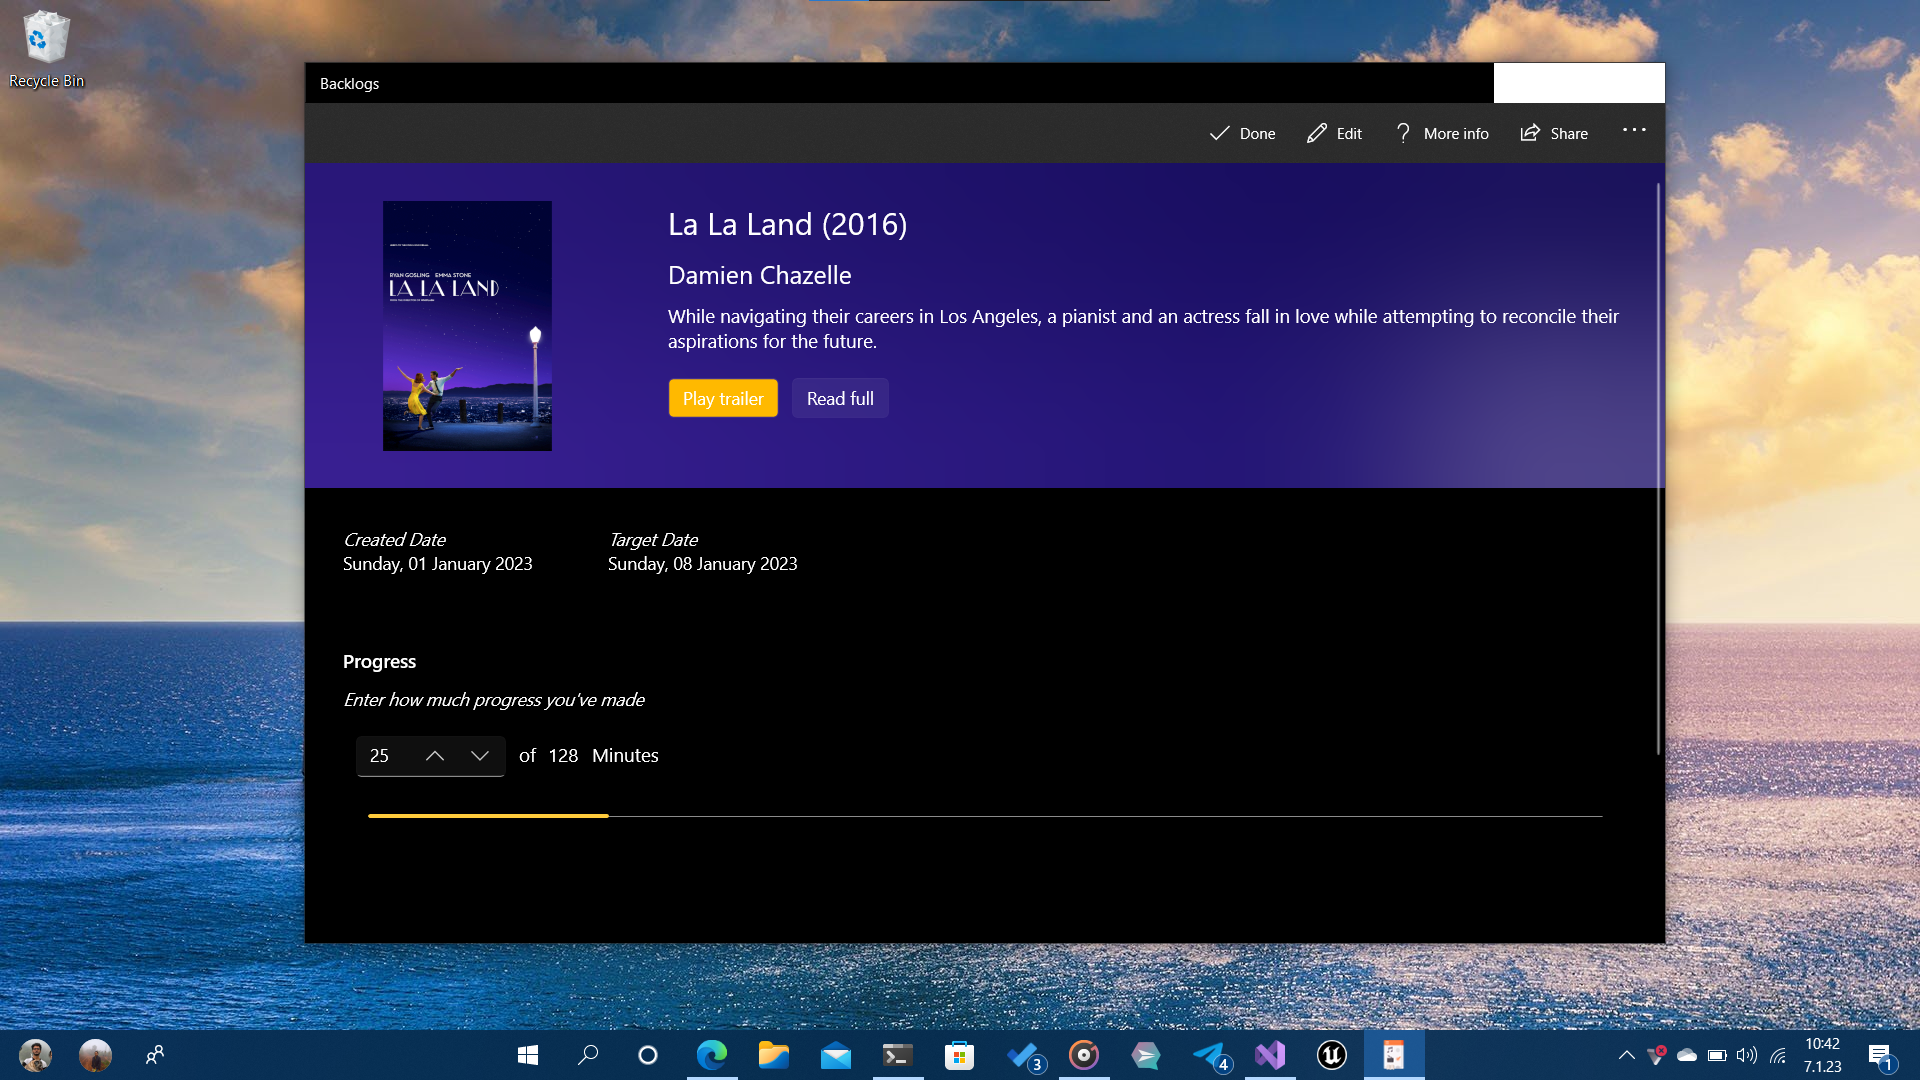
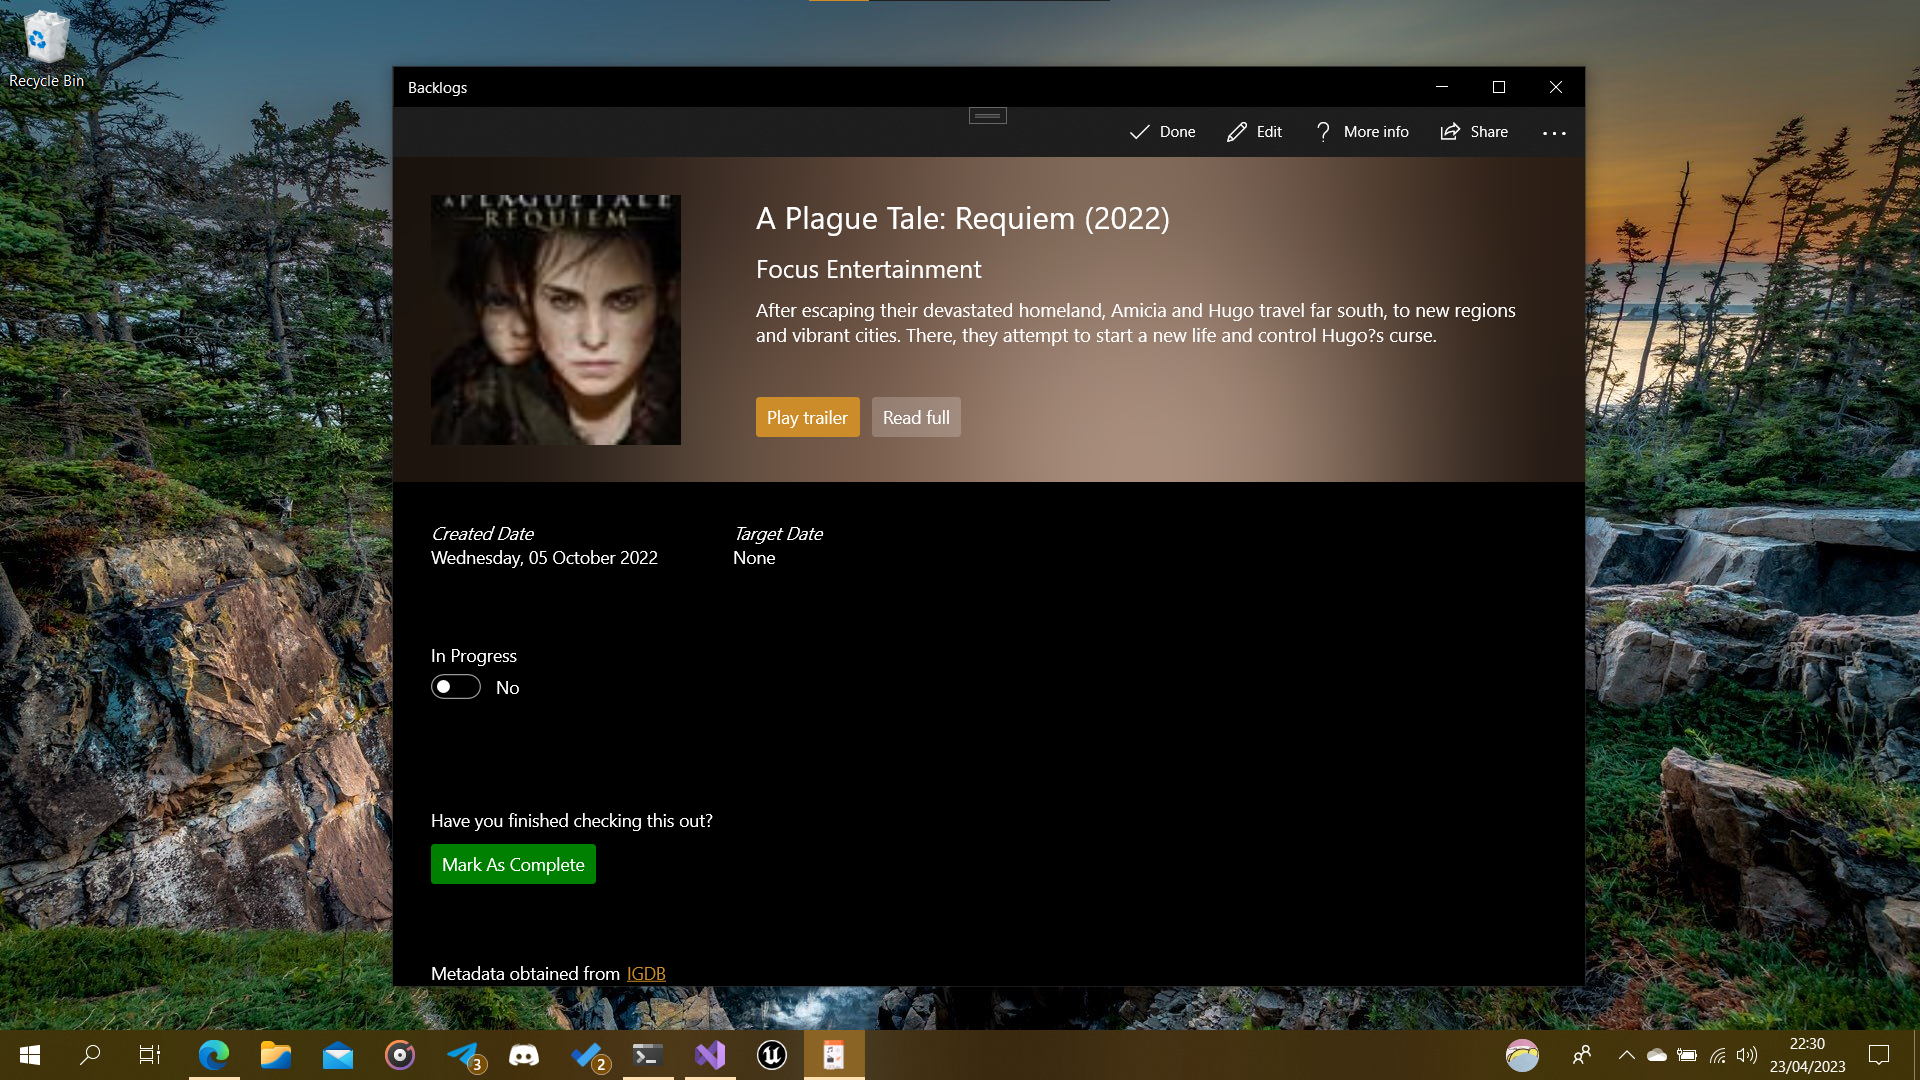
Update to version 0.11.4

diff --git a/Backlogs/ViewModels/SettingsViewModel.cs b/Backlogs/ViewModels/SettingsViewModel.cs
@@ -27,12 +27,16 @@ namespace Backlogs.ViewModels
 
         public string MIT { get; } = "Permission is hereby granted, free of charge, to any person obtaining a copy of this software and associated documentation files (the “Software”), to deal in the Software without restriction, including without limitation the rights to use, copy, modify, merge, publish, distribute, sublicense, and/or sell copies of the Software, and to permit persons to whom the Software is furnished to do so, subject to the following conditions: \n\nThe above copyright notice and this permission notice shall be included in all copies or substantial portions of the Software. \n\nTHE SOFTWARE IS PROVIDED AS IS, WITHOUT WARRANTY OF ANY KIND, EXPRESS OR IMPLIED, INCLUDING BUT NOT LIMITED TO THE WARRANTIES OF MERCHANTABILITY, FITNESS FOR A PARTICULAR PURPOSE AND NON-INFRINGEMENT. IN NO EVENT SHALL THE AUTHORS OR COPYRIGHT HOLDERS BE LIABLE FOR ANY CLAIM, DAMAGES OR OTHER LIABILITY, WHETHER IN AN ACTION OF CONTRACT, TORT OR OTHERWISE, ARISING FROM, OUT OF OR IN CONNECTION WITH THE SOFTWARE OR THE USE OR OTHER DEALINGS IN THE SOFTWARE.";
         public string GPL { get; } = "This program is free software: you can redistribute it and/or modify it under the terms of the GNU General Public License as published by the Free Software Foundation, either version 3 of the License, or (at your option) any later version.\n\nThis program is distributed in the hope that it will be useful, but WITHOUT ANY WARRANTY; without even the implied warranty of MERCHANTABILITY or FITNESS FOR A PARTICULAR PURPOSE. See the GNU General Public License for more details. \n\nYou should have received a copy of the GNU General Public License along with this program. If not, see https://www.gnu.org/licenses/";
-        public string Changelog { get; } = 
-            "\u2022 Improved Homepage design thanks to Shefer from the UWP Community\n" +
-            "\u2022 The app should now follow system accent colour\n" +
-            "\u2022 Fixed a bug causing sorting to not work correctly\n" +
-            "\u2022 Fixed a bug displaying progress on the homepage incorrectly\n";
-        public string ChangelogTitle { get; } = "New this version - 08 February, 2023";
+        public string Changelog { get; } =
+            "\u2022 Redesigned Settings page\n" +
+            "\u2022 Redesigned Create page\n" +
+            "\u2022 Updated iconography and typography throughout the app\n" +
+            "\u2022 [PC only] Most pages now have an acrylic background\n" +
+            "\u2022 Logs should now be easier to read and select\n" +
+            "\u2022 Licence text can now be selected\n" +
+            "\u2022 Live tiles are now simpler\n" +
+            "\u2022 Made progress on homepage easier to read\n";
+        public string ChangelogTitle { get; } = "New this version - 23 April, 2023";
         public string Version { get => m_settings.Get<string>(SettingsConstants.Version); } 
 
         public bool ShowSignInPrompt { get; } 

diff --git a/Backlogs/ViewModels/MainViewModel.cs b/Backlogs/ViewModels/MainViewModel.cs
@@ -60,7 +60,7 @@ namespace Backlogs.ViewModels
         public string UserName { get; set; } 
         public bool SignedIn { get; set; }
         public bool Sync { get; set; }
-        public string WhatsNew = "Modern UI, new homepage, bug fixes and more";
+        public string WhatsNew = "New visual, simplified live tiles and more";
 
         public event PropertyChangedEventHandler PropertyChanged;
 
